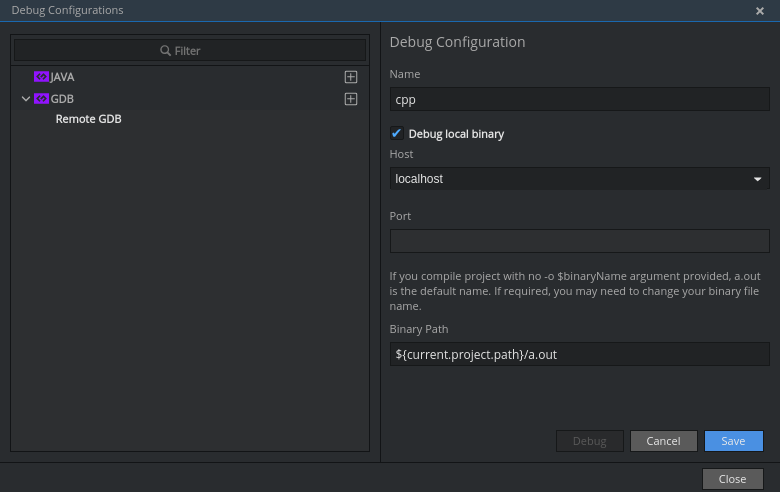
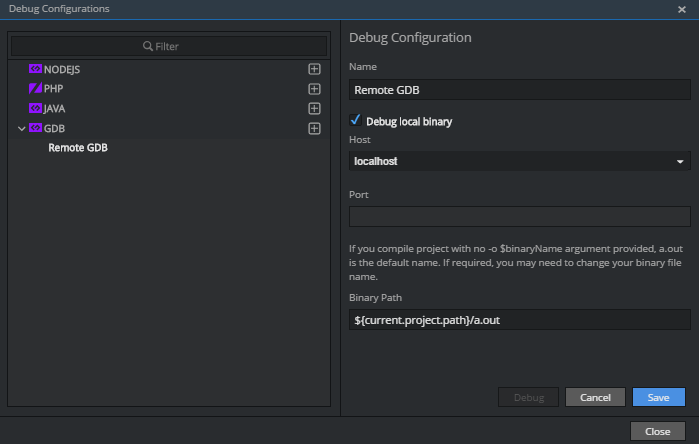
Update debug per 5.0.0 changes.

diff --git a/src/main/_docs/use-che-as-an-ide/ide-debug.md b/src/main/_docs/use-che-as-an-ide/ide-debug.md
@@ -10,9 +10,13 @@ permalink: /:categories/debug/
 Java debugger is deployed with the workspace agent, i.e. runs in the workspace. It can connect to local processes (those running in a workspace) or remote ones.
 
 Breakpoints are set with a single click on a line number in the editor. You can set breakpoints before attaching a debugger:
+
 ![breakpoint.png]({{base}}{{site.links["breakpoint.png"]}})
+
 In a Debug Dialog (**Run > Edit Debug Configurations...**), choose if you want to attach to a process in a local workspace or a remote machine. If localhost is chosen, a drop down menu will show all ports that are exposed in a container. You may either choose an existing port or provide your own.
+
 ![debug-configurations.png]({{base}}{{site.links["debug-configurations.png"]}})
+
 ## Java Console Apps
 
 To debug console apps, pass debug arguments to JVM:
@@ -27,7 +31,7 @@ $TOMCAT_HOME/bin/catalina.sh jpda run
 ```
 You can add debug commands to CMD widget to permanently save them with the workspace config.
 # GDB  
-## Debugging Local Binary
+## Debugging Local C/CPP Binary
 
 Compile your app with `-g` argument, go to `Run > Edit Debug Configurations > GDB`. Create a new configuration, check `Debug local binary` box. By default, binary path is `${current.project.path/a.out}`. When the debugger attaches, this macro is translated into an absolute path to a currently selected project. `a.out` is the default binary name. If you have compiled binary with a different name, change it:
 ![debug.png]({{base}}{{site.links["debug.png"]}})
@@ -53,9 +57,9 @@ This commands grabs gdbserver PID and kills the process.
 
 ## Connect to GDB server
 
-Go to `Run > Debug Configurations > Edit Debug Configurations` and enter host (localhost if gdbserver has been started in the same workspace environment), port and path to the binary file being debugged. By default, binary name is `a.out`. If you have compiled your binary with `-o` argument, you need to provide own custom binary name in a debug configuration.
+Go to `Run > Edit Debug Configurations` and enter host (localhost if gdbserver has been started in the same workspace environment), port and path to the binary file being debugged. By default, binary name is `a.out`. If you have compiled your binary with `-o` argument, you need to provide own custom binary name in a debug configuration.
 
-Save your configuration, choose it at `Run > Debug Configuration` and attach the debugger, having previously set breakpoints in source files.
+Save your configuration, choose it at `Run > Debug > <YourDebugConfiguration>` and attach the debugger, having previously set breakpoints in source files.
 
 ### Connection Timeouts
 
@@ -87,7 +91,7 @@ The debugging workflow involves the following steps:
 
 ## Starting the Zend Debugger Client
 
-Eclipse Che has the Zend Debugger Client integrated in the Web IDE. For launching the Zend Debugger Client:
+{{site.product_formal_name}} has the Zend Debugger Client integrated in the Web IDE. For launching the Zend Debugger Client:
 
 1. Go to `Run > Edit Debug Configurations` from the main menu.
 1. Create new `PHP` configuration.
@@ -101,7 +105,7 @@ The successful launch of the Zend Debugger Client is noted with a notification m
 The Debug Configuration window allows the following configuration for the Zend Debugger Client:
 
 - `Break at first line`. Determines whether to break the execution at the very first line, hit by the PHP interpreter. Enabled by default. It is useful to easily find the app's entry point. You may want to switch this option off if you defined your own breakpoint and you are not interesting at breaking the execution at the first line.
-- `Client host/IP`. The host/IP on which to bind the server socket for listening for new debug sessions. The default host is `localhost`. Changing it should be only necessary if the PHP engine is running in a different workspace machine or outside of the Che workspace at all.
+- `Client host/IP`. The host/IP on which to bind the server socket for listening for new debug sessions. The default host is `localhost`. Changing it should be only necessary if the PHP engine is running in a different workspace machine or outside of the {{site.product_mini_name}} workspace at all.
 - `Debug port`. The port on which to bind the server socket for listening for new debug sessions. The default port is `10137`. It should be rarely necessary to change it.
 - `Use SSL encryption`. Whether to use SSL encryption for the debugging communication between the PHP engine and the Zend Debugger Client. Disabled by default.
 
@@ -137,13 +141,13 @@ http://localhost:32810/web-php-simple/index.php?start_debug=1&debug_host=localho
 
 The [zDebug](https://chrome.google.com/webstore/detail/zdebug/gknbnafalimbhgkmichoadhmkaoingil) extension can be used for easier triggering of debug sessions from the Chrome browser. The [Zend Debugger Extension](https://chrome.google.com/webstore/detail/zend-debugger-extension/aonajadpeeaijblinaeohfdmbgdpibba) is another extension that does the same job.
 
-It is important to configure the Chrome extension properly before using it for debugging PHP apps running in a Che workspace:
+It is important to configure the Chrome extension properly before using it for debugging PHP apps running in a {{site.product_mini_name}} workspace:
 
 1. Set `Debug Host` to `localhost` or `127.0.0.1`.
 1. Set `Debug Port` to `10137`.
 1. Set `Debug Local Copy` to `No`.
 
-Note that it is not the browser that opens the debug session to the Zend Debugger Client. This is done by the PHP engine that runs in the Che workspace. The browser just tells the PHP engine to do so. So the above settings are for the PHP engine (the Zend Debugger module in particular). Thus the `Debug Host` must be set to `localhost` and not the public host of the docker container running the Che workspace.
+Note that it is not the browser that opens the debug session to the Zend Debugger Client. This is done by the PHP engine that runs in the {{site.product_mini_name}} workspace. The browser just tells the PHP engine to do so. So the above settings are for the PHP engine (the Zend Debugger module in particular). Thus the `Debug Host` must be set to `localhost` and not the public host of the docker container running the {{site.product_mini_name}} workspace.
 
 In the end the zDebug settings should look like this:
 
@@ -187,3 +191,54 @@ Among other features, it also has the capability to trigger a debug session:
 ![z-ray-debug.png]({{ base }}{{ site.links["z-ray-debug.png"] }})
 
 That's all!
+
+# NodeJS
+
+The Node.js ready-to-go [stack]({{ base }}{{ site.links["ws-stacks"] }}) come with Node.js debugger module installed and configured. Dockerfile is located on github [eclipse/che-dockerfiles](https://github.com/eclipse/che-dockerfiles/blob/master/recipes/node/latest/Dockerfile) repository.
+
+The debugging workflow involves the following steps:
+
+1. Launch the Node.js debugger client to start debug session
+1. Optionally set breakpoints in the editor
+1. Create/Run command to generate preview url
+1. Click preview url to open new tab with web app
+1. Use the Web IDE tooling to do the actual debugging
+
+## Starting Node.js Debugger Client
+
+{{site.product_formal_name}} has the Node.js Client integrated in the Web IDE. For launching the Node.js Debugger Client:
+
+1. Go to `Run > Edit Debug Configurations` from the main menu
+1. Create new `NODEJS` configuration
+1. Change any settings if necessary. The defaults are usually OK
+1. Click the `Debug` button
+1. Will break at first line of code
+
+![debug-nodejs-config.png]({{ base }}{{ site.links["debug-nodejs-config.png"] }})
+
+## Creating command to view preview url
+
+{{site.product_formal_name}}'s workspaces have machine(s) that are docker container(s). These workspace machines have exposed ports which are initially set by [stack]({{base}}{{site.links["ws-stacks"]}}) and [additional exposed ports](#exposed-ports) can be added through the [machine information in dashboard]({{base}}{{site.links["ws-machines"]}}#dashboard-machine-information)
+
+1. Add command `Run > Edit Commands` 
+1. Give command a name like "View Preview URL"
+1. Add fictitious command `echo` for required command line
+1. Provide preview url for nodejs server such as `http://${server.port.<port>}/`
+
+## Use Node.js Debugger
+
+1. Start debugger `Run > debug > <config-name>`
+1. Click continue button until server is running
+1. Add breakpoints
+1. Run command to generate preview url
+1. Click preview url to open web app in another tab
+1. Go back to IDE tab
+1. Use the Web IDE tooling to do the actual debugging
+
+![nodejs-debugger-walkthru.gif]({{ base }}{{ site.links["nodejs-debugger-walkthru.gif"] }})
+
+## Exposed Ports
+
+Exposed ports can be defined in stacks dockerfile or compose file. If using ready-to-go node [stack]({{base}}{{site.links["ws-stacks"]}}) you can view dockerfile `EXPOSE` command on github repo [eclipse/che-dockerfiles](https://github.com/eclipse/che-dockerfiles/blob/master/recipes/node/latest/Dockerfile). Additional exposed ports can be added through dashboard `dashboard > select workspace > runtime > <expand machine> > add server`.
+
+![nodejs-debugger-add-port.gif]({{ base }}{{ site.links["nodejs-debugger-add-port.gif"] }})
